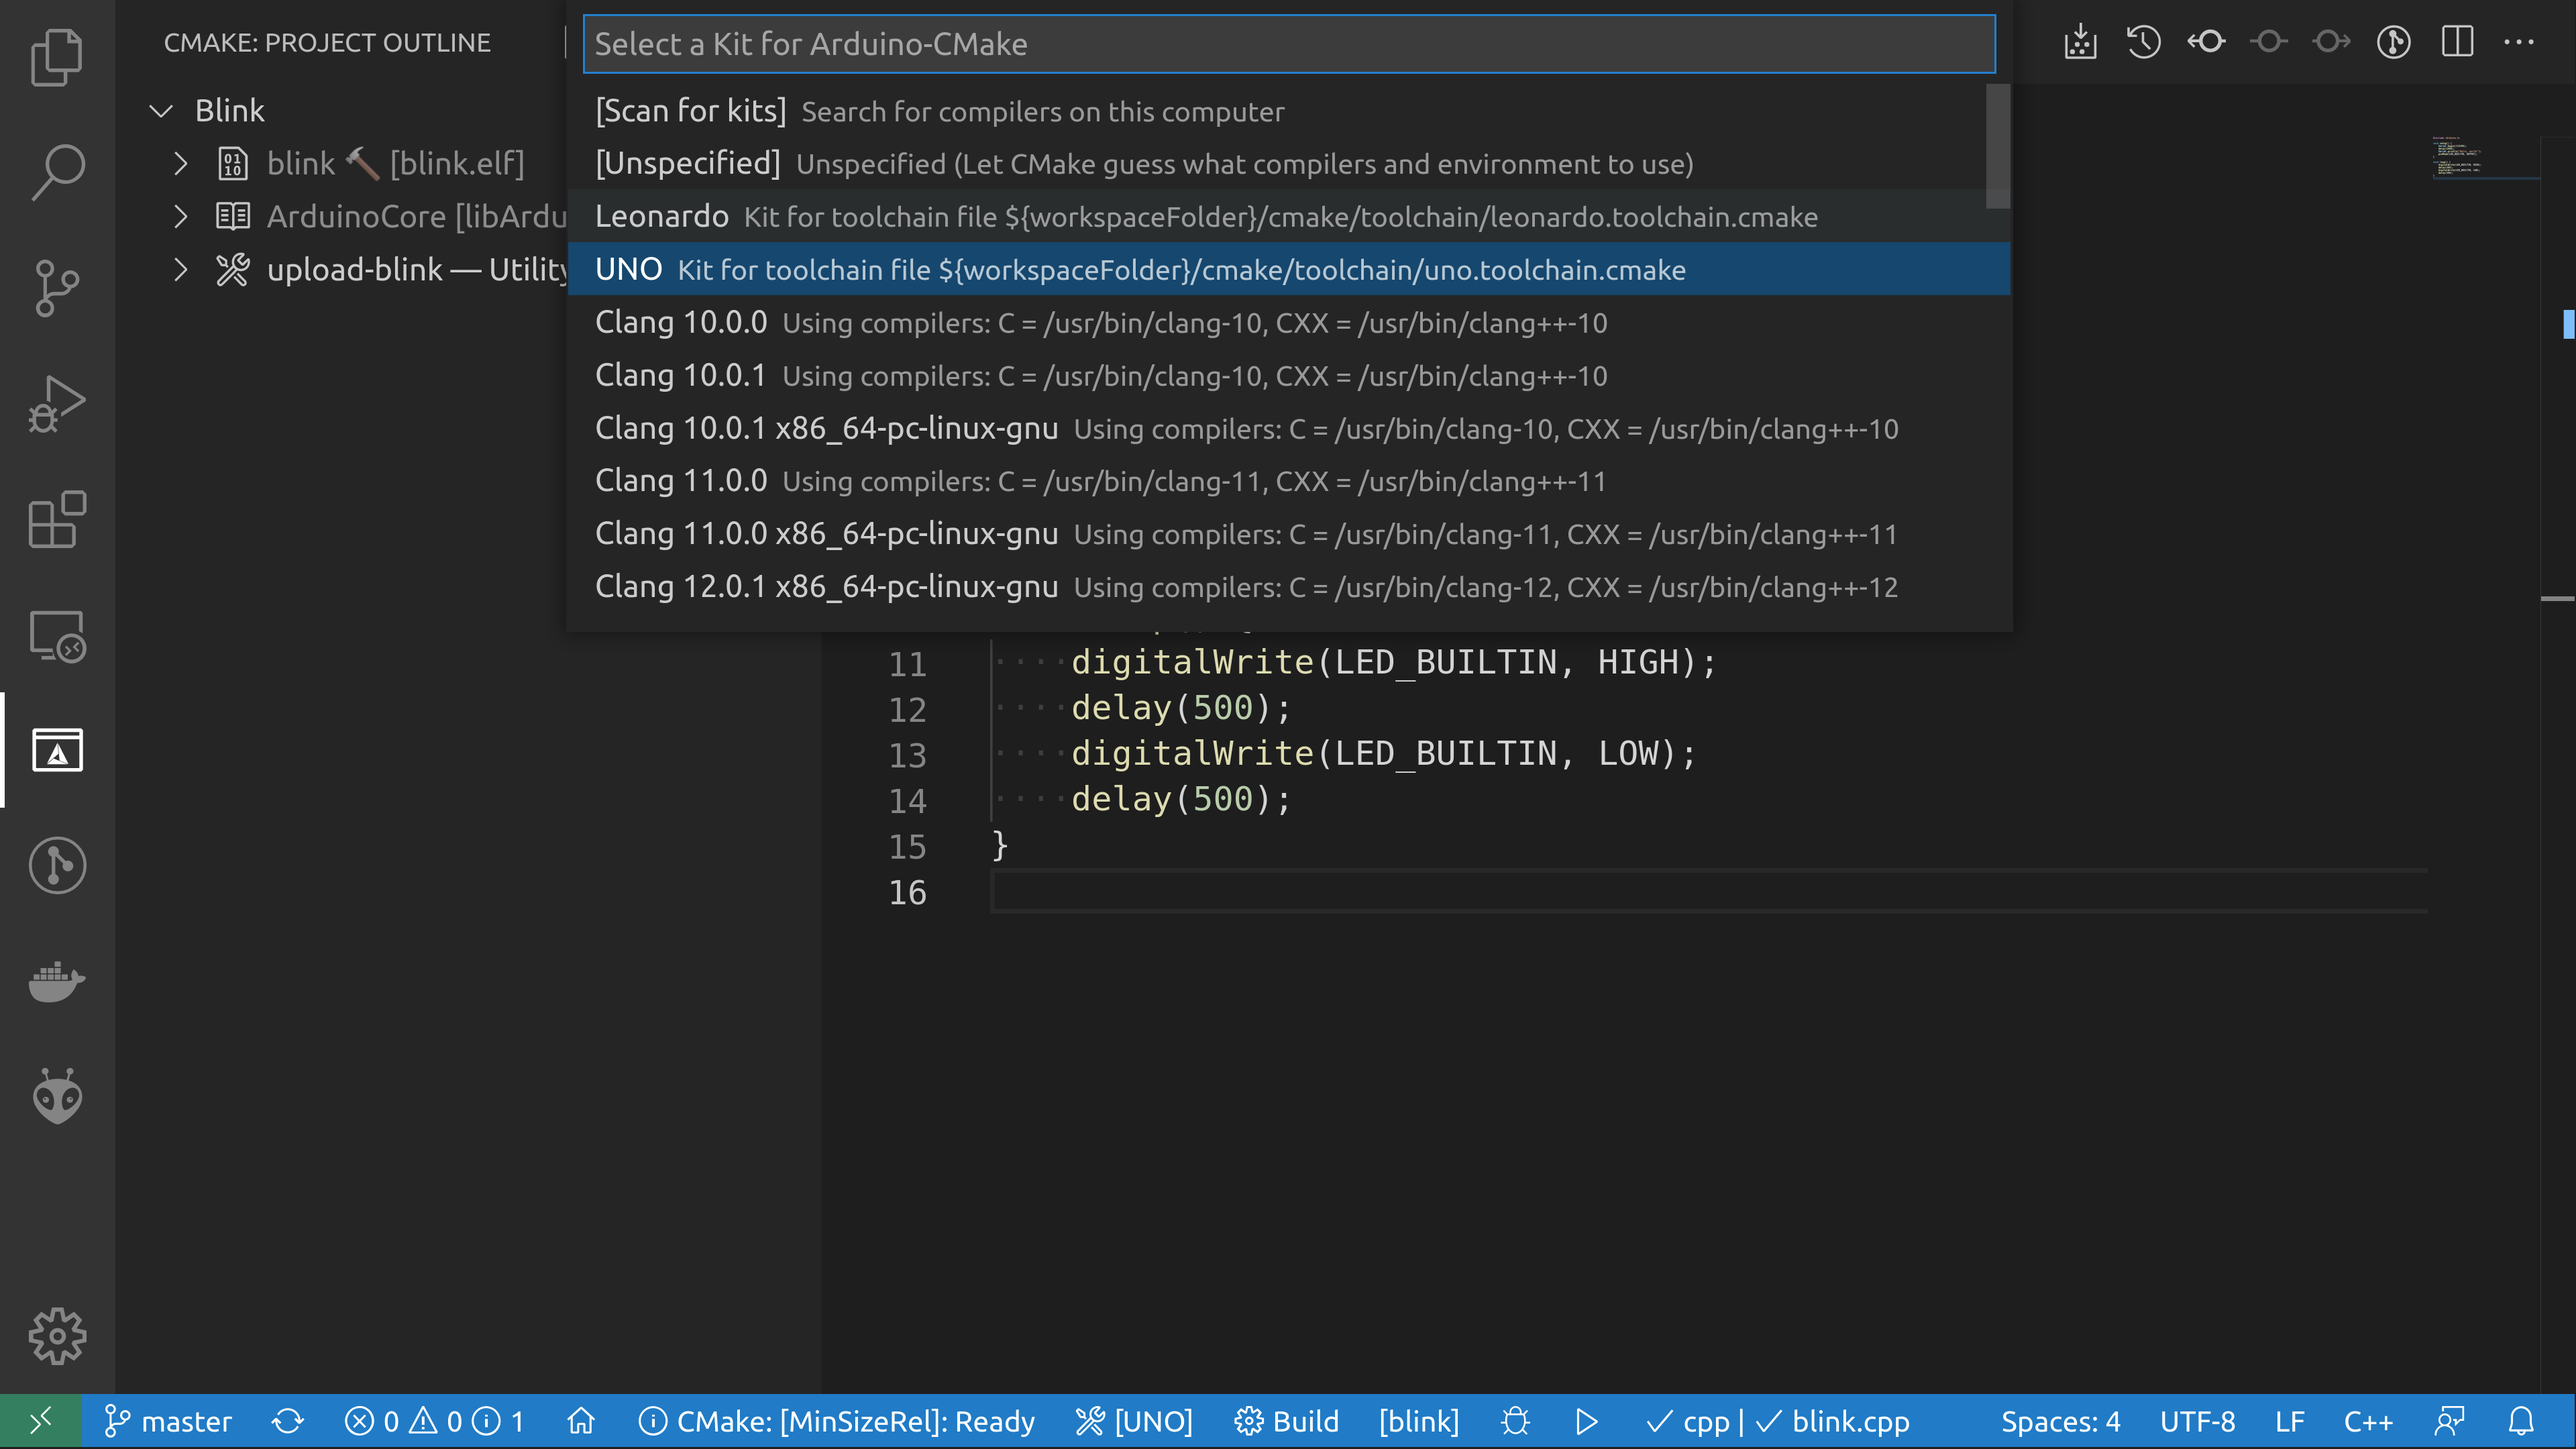
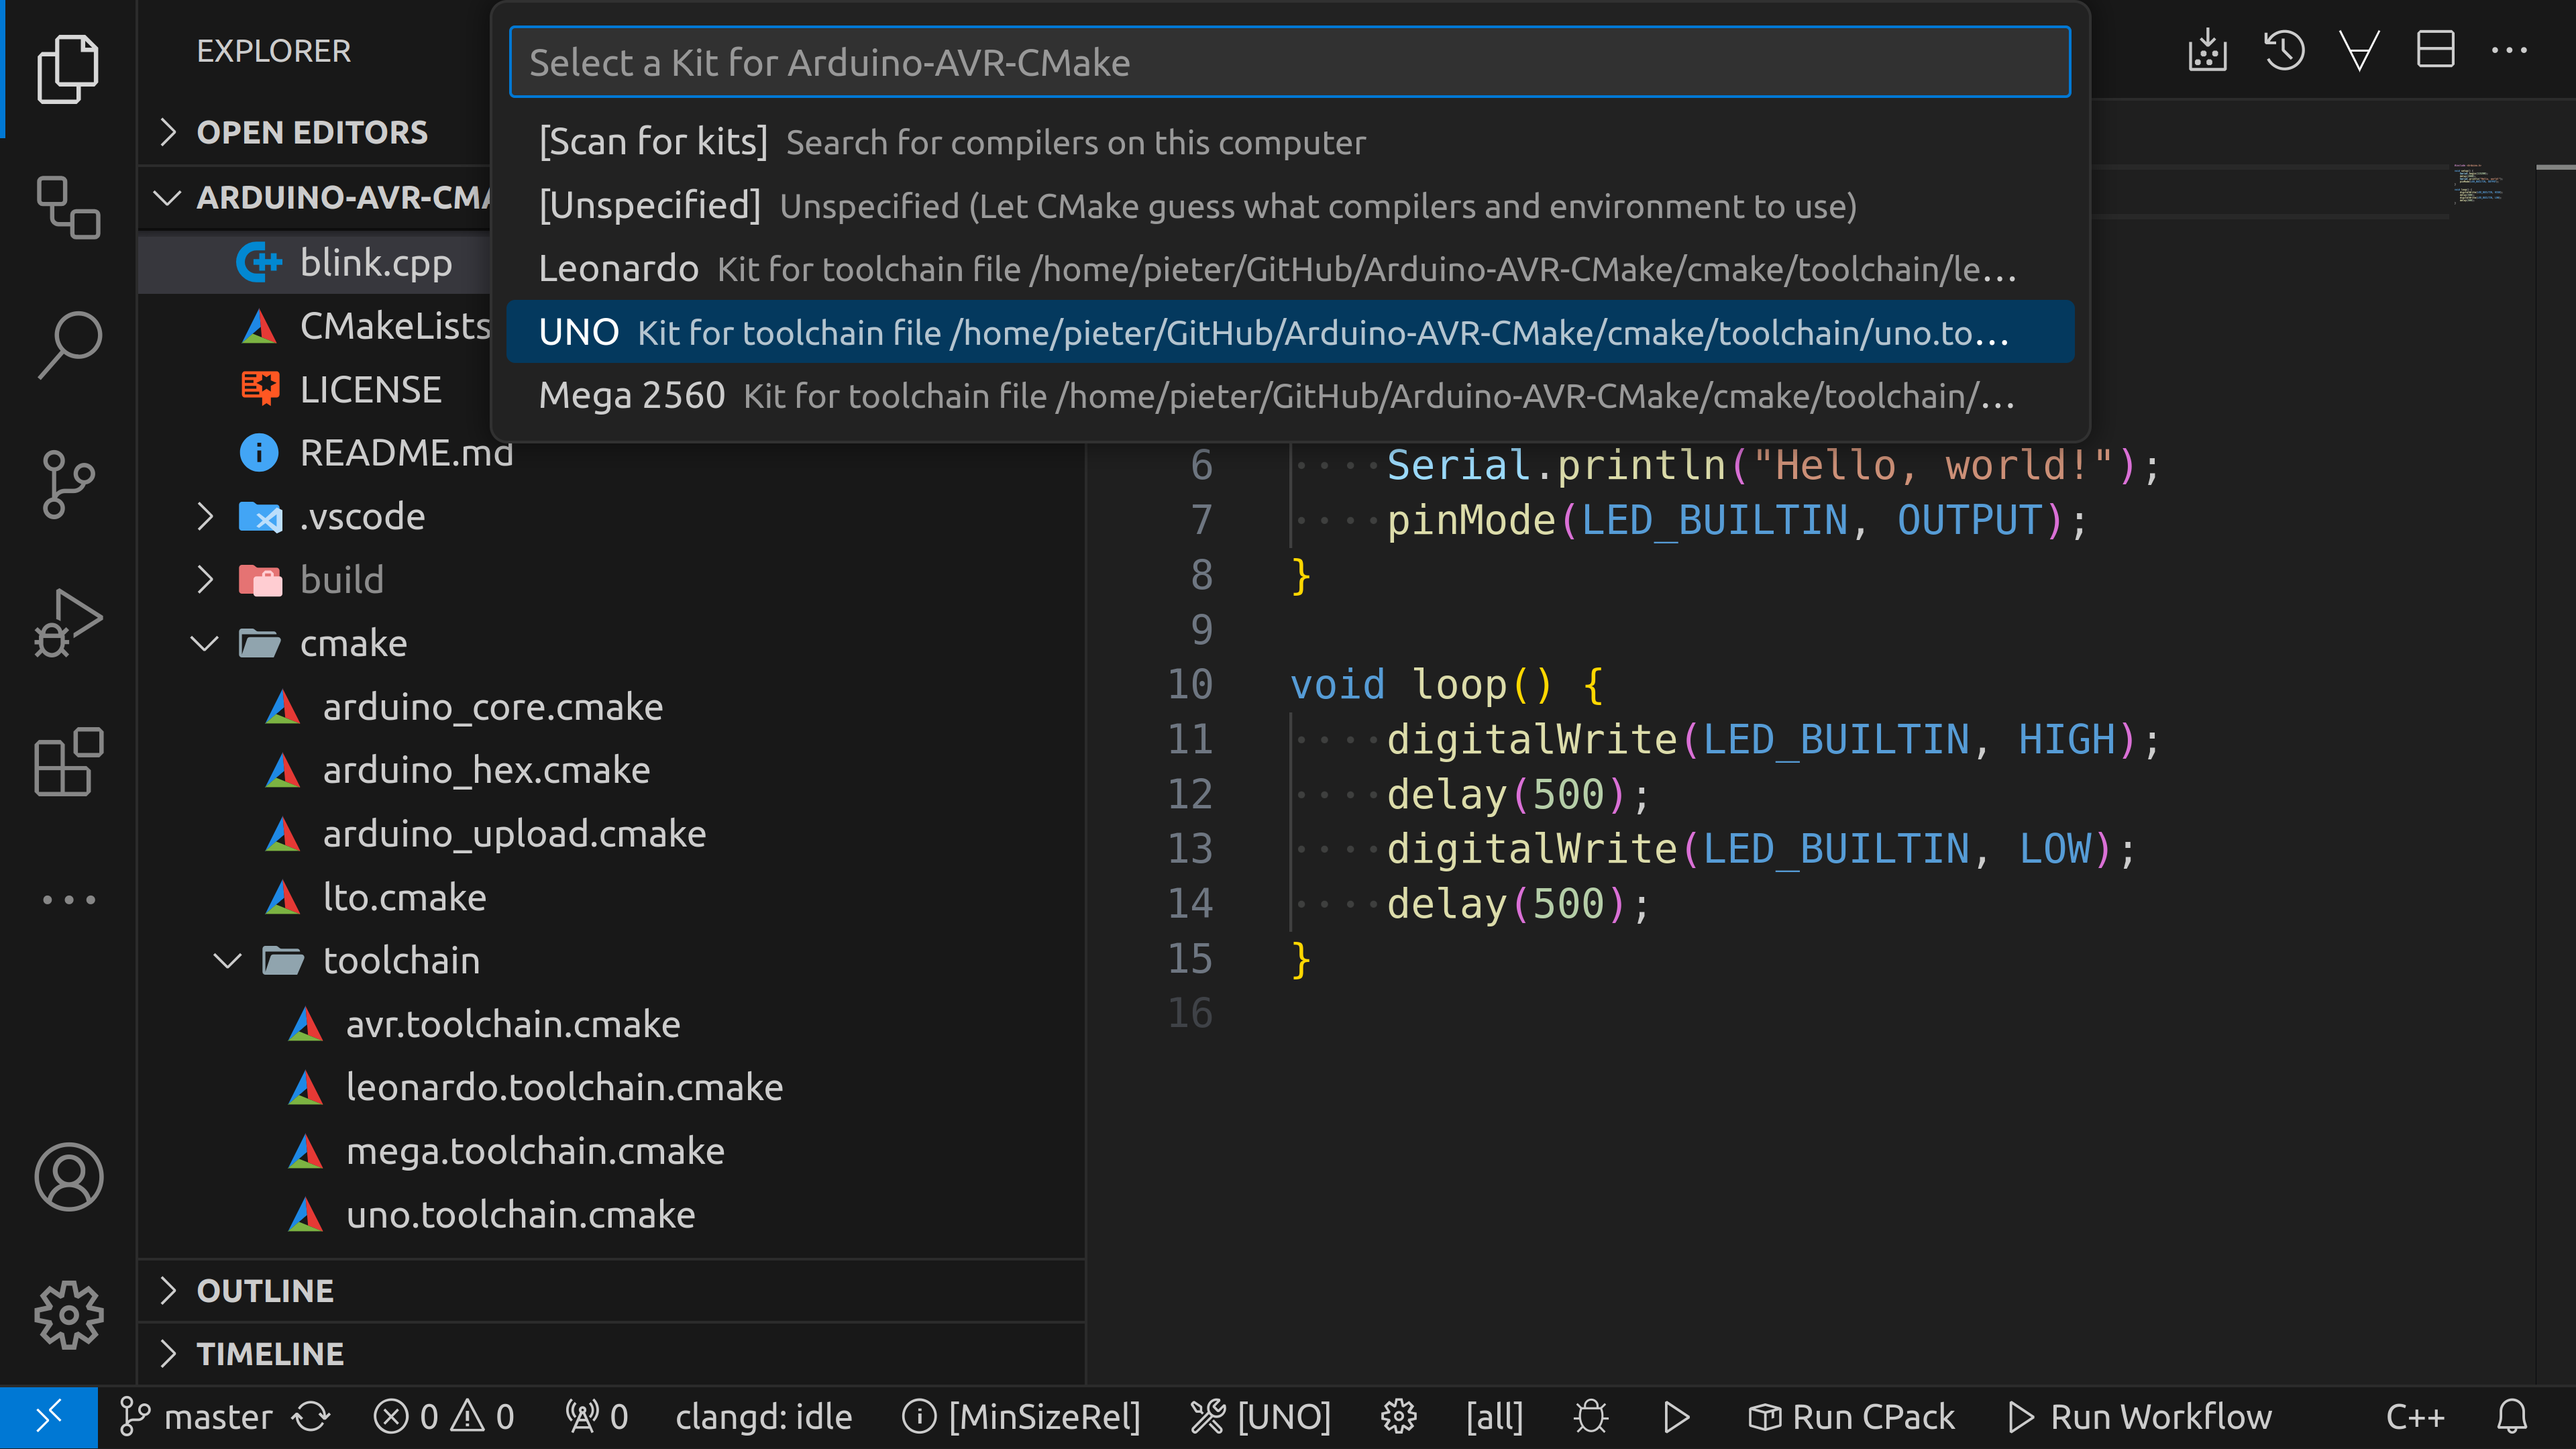
Update images README.md VSCode and CMake extension layout has changed

diff --git a/README.md b/README.md
@@ -35,12 +35,11 @@ Compile Arduino AVR programs using CMake.
 ## VSCode
 
 In VSCode, you can select the board you want to use using the 
-`CMake: Select a Kit` command from the CMake Tools extension, 
-or by clicking on the corresponding button at the bottom of the window.
+`CMake: Select a Kit` command from the CMake Tools extension.
 Then select the right board as shown in the following image:
 ![Selecting the Arduino board using CMake](images/selecting.png)
 
-To build the sketch, you can either click the `Build` button at the bottom or 
-in the CMake side panel. To upload, you can use the `upload-blink` utility in 
-the CMake side panel:
+To build the sketch, you can either press <kbd>F7</kbd> or click the `Build`
+button in the bottom ribbon or in the CMake side panel. To upload, you can use
+the `upload-blink` utility in the CMake side panel:
 ![Uploading the Arduino board using CMake](images/uploading.png)
